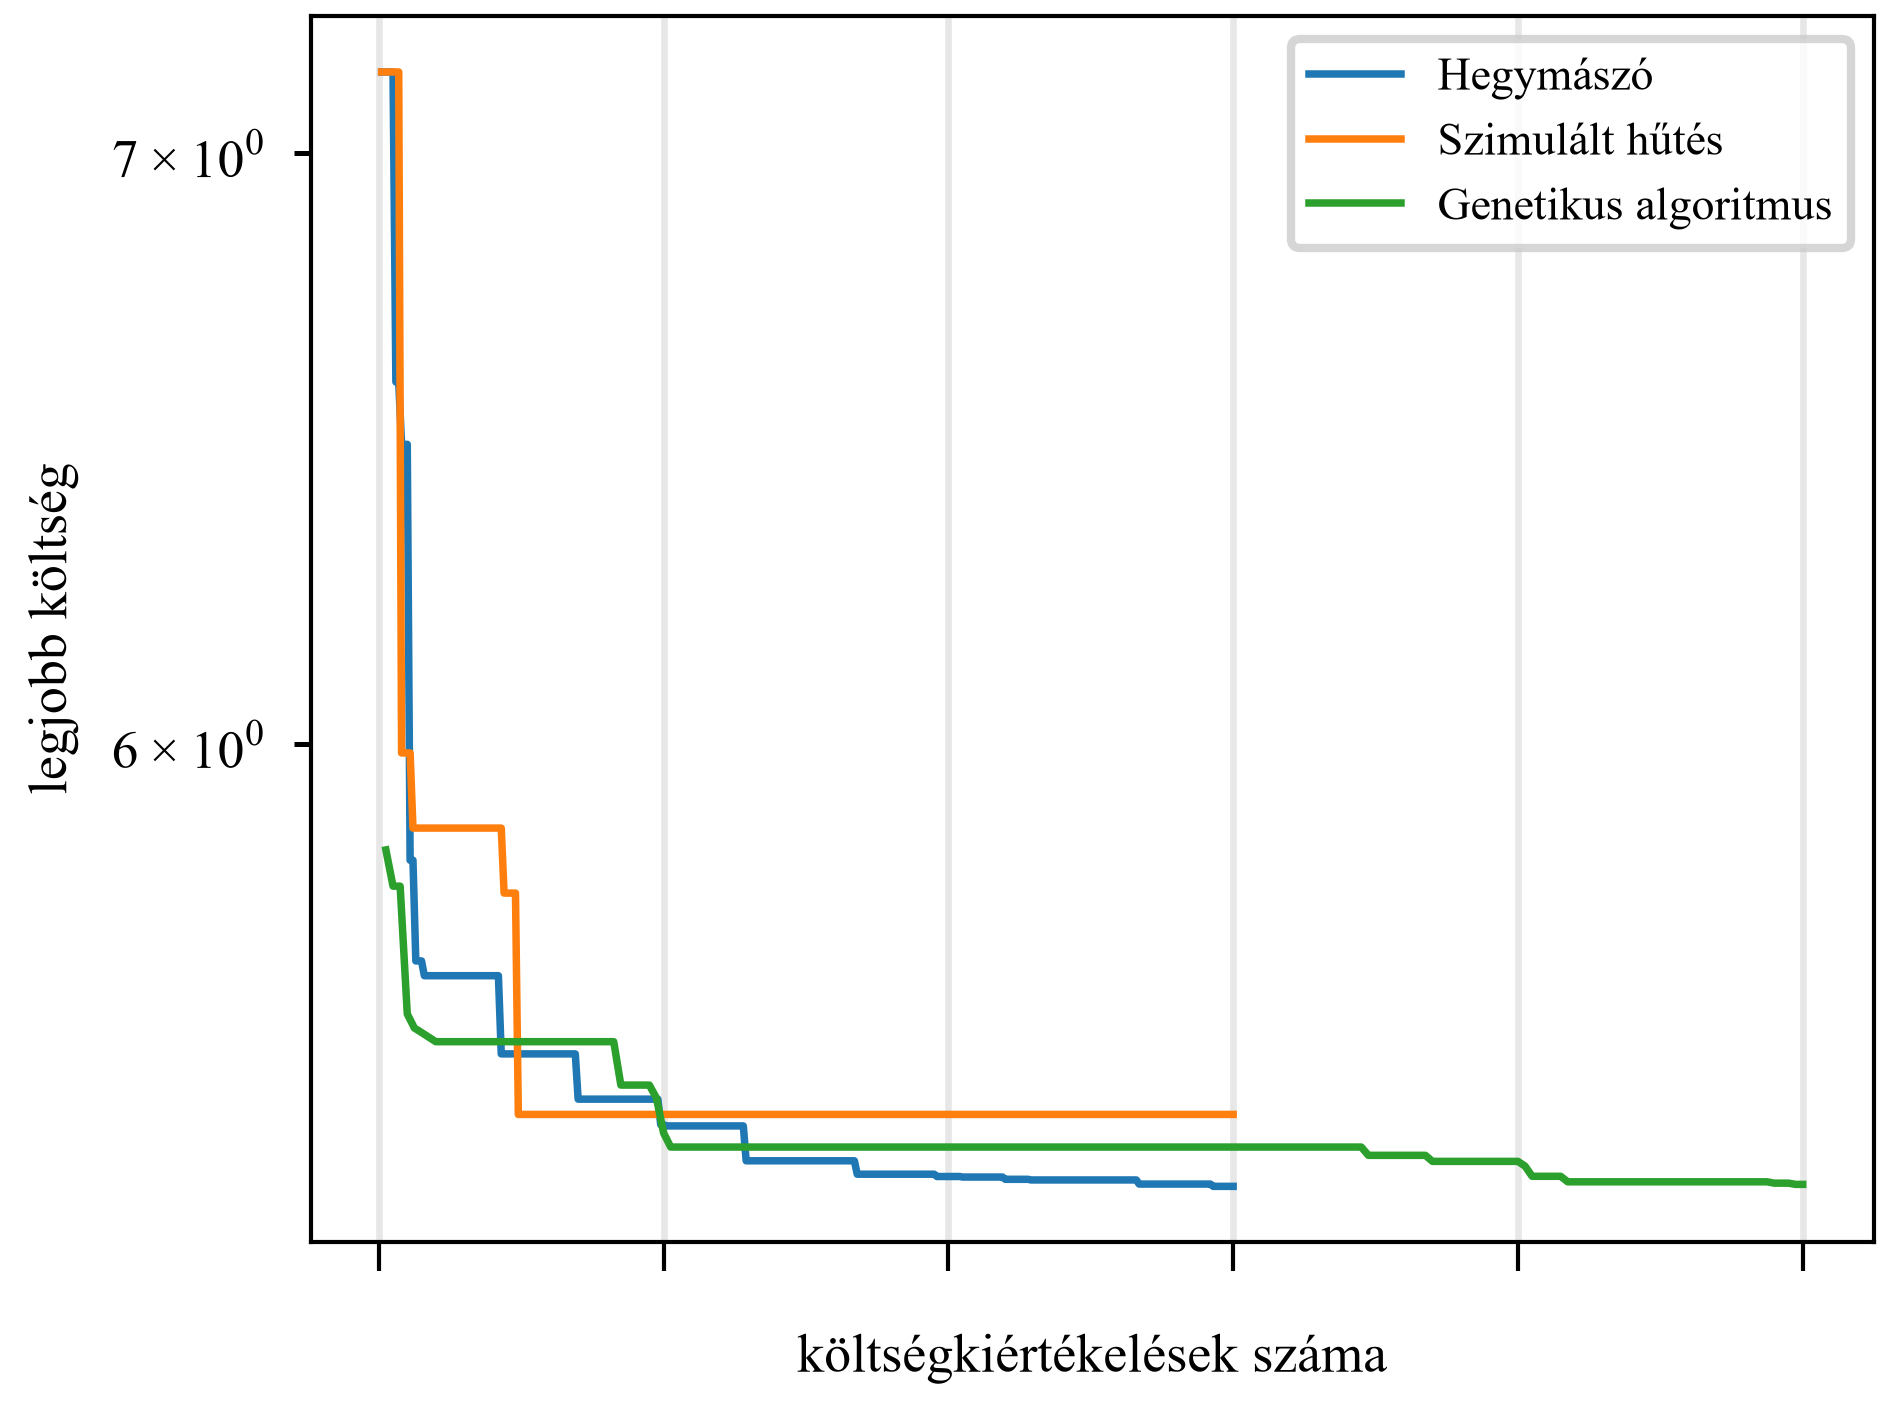
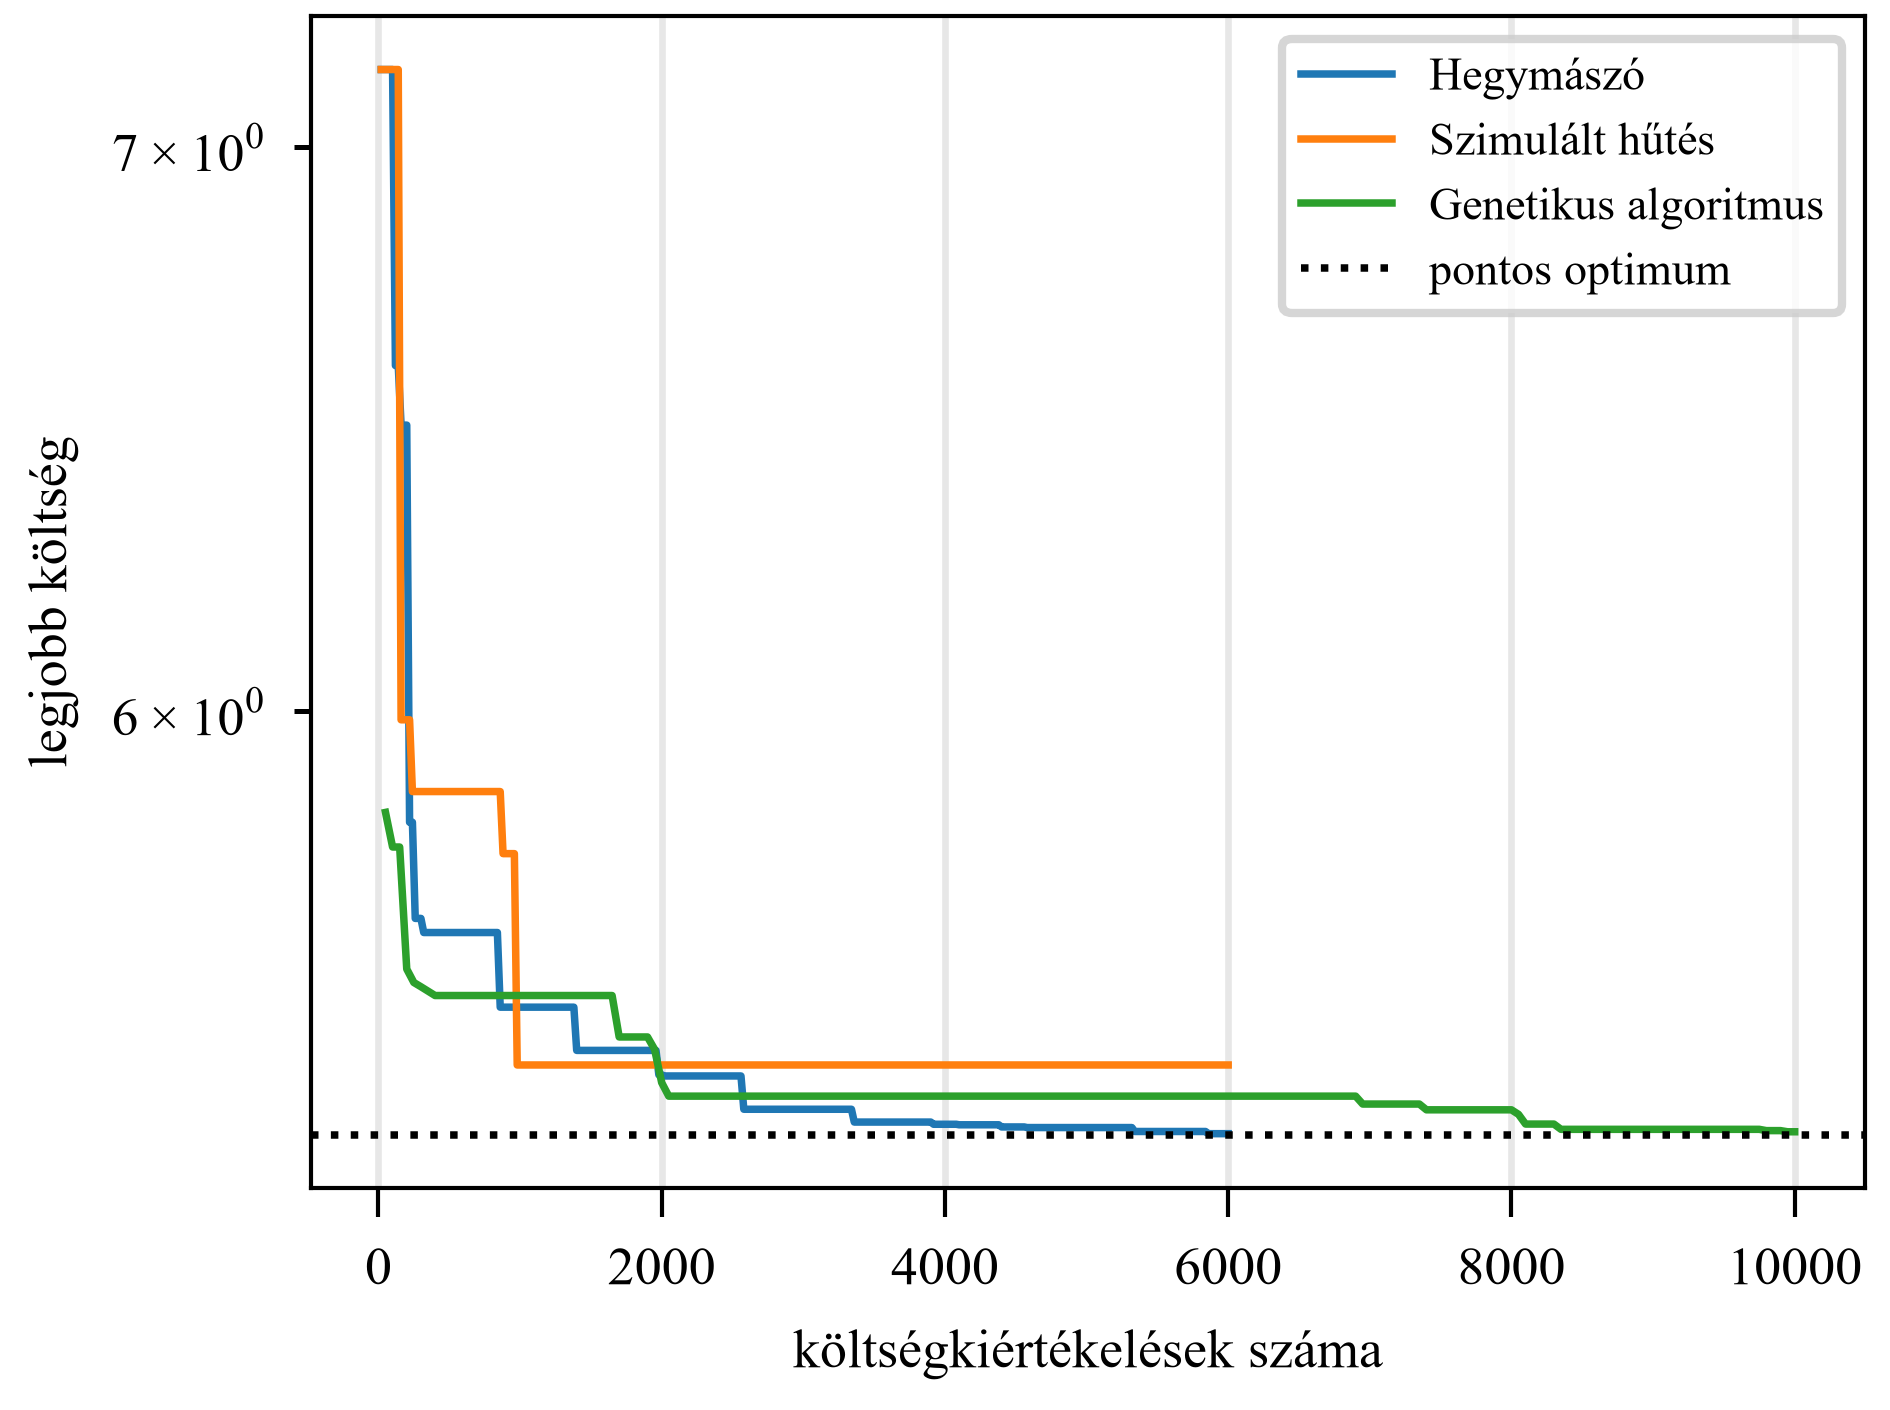
Final plots added
Added final_plots.py, generated pics

diff --git a/src/final_plots.py b/src/final_plots.py
@@ -1,3 +1,5 @@
+
+import itertools
 import os
 
 import numpy as np
@@ -7,6 +9,7 @@ from matplotlib.ticker import FuncFormatter
 from generator.points import (
     reset_seed,
     circle_points,
+    ellipse_points,
     polygon_points,
     random_points,
 )
@@ -44,43 +47,89 @@ LEGEND = {"points": "pontok", "reference": "referencia",
           "known optimum": "pontos optimum"}
 
 # the sets that get figures, remove a name to skip that set
-SELECTED = ["clean", "circle", "arc", "polygon", "random"]
+SELECTED = ["clean", "circle", "arc", "polygon", "random", "ellipse"]
+
+
+def exact_circle(pts):
+    """
+    Find the exact smallest enclosing circle by checking every circle that
+    is fixed by two or three points, it is meant for small sets (N < 200)
+
+    Parameters:
+    pts (np.ndarray): An array of shape (N, 2) with the points
+
+    Returns:
+    tuple: The centre x, the centre y and the radius of the circle
+    """
+    best = None
+
+    def covers(c, r):
+        return np.hypot(pts[:, 0] - c[0], pts[:, 1] - c[1]).max() <= r + 1e-9
+
+    for i, j in itertools.combinations(range(len(pts)), 2):
+        c = (pts[i] + pts[j]) / 2
+        r = np.linalg.norm(pts[i] - c)
+        if (best is None or r < best[2]) and covers(c, r):
+            best = (c[0], c[1], r)
+    for i, j, k in itertools.combinations(range(len(pts)), 3):
+        a, b, d = pts[i], pts[j], pts[k]
+        den = 2 * (a[0] * (b[1] - d[1]) + b[0] * (d[1] - a[1])
+                   + d[0] * (a[1] - b[1]))
+        if abs(den) < 1e-12:
+            continue
+        ux = (a @ a * (b[1] - d[1]) + b @ b * (d[1] - a[1])
+              + d @ d * (a[1] - b[1])) / den
+        uy = (a @ a * (d[0] - b[0]) + b @ b * (a[0] - d[0])
+              + d @ d * (b[0] - a[0])) / den
+        r = np.hypot(a[0] - ux, a[1] - uy)
+        if (best is None or r < best[2]) and covers((ux, uy), r):
+            best = (ux, uy, r)
+    return best
 
 
 def make_test_sets():
     """
-    Build the four test point sets, every set starts from the same seed
+    Build the five test point sets, every set starts from the same seed
 
     Parameters:
     None
 
     Returns:
     dict: Maps the file name of the set to a tuple of the points, the
-        circle the points came from (None if there is no such circle) and
-        the radius of the exact optimum (None if it is not known)
+        exact smallest enclosing circle of the points (the reference) and
+        the radius of that circle, which is also the cost of the optimum
     """
+    points = {}
+
+    reset_seed(SEED)
+    points["clean"] = circle_points(r=5, n=50, center=(1, -2), noise=0)
+
+    reset_seed(SEED)
+    points["circle"] = circle_points(r=5, n=50, center=(1, -2), noise=0.3)
+
+    reset_seed(SEED)
+    points["arc"] = circle_points(r=5, n=50, noise=0.3, span=np.pi)
+
+    reset_seed(SEED)
+    points["polygon"] = polygon_points(sides=8, r=5, n=80, noise=0.1)
+
+    reset_seed(SEED)
+    points["random"] = random_points(n=50, x_range=(-5, 5), y_range=(-5, 5))
+
+    reset_seed(SEED)
+    points["ellipse"] = ellipse_points(
+        a=7, b=4, n=80,
+        center=(1, -2),
+        rotation=np.deg2rad(25),
+        noise=0.1
+    )
+
+    # the reference is the exact optimum of every set, not the circle the
+    # points were generated from, because noise moves the optimum away from it
     sets = {}
-
-    # no noise, so the generating circle is the exact smallest enclosing circle
-    reset_seed(SEED)
-    sets["clean"] = (circle_points(r=5, n=50, center=(1, -2), noise=0),
-                     Circle(1, -2, 5), 5.0)
-
-    reset_seed(SEED)
-    sets["circle"] = (circle_points(r=5, n=50, center=(1, -2), noise=0.3),
-                      Circle(1, -2, 5), None)
-
-    reset_seed(SEED)
-    sets["arc"] = (circle_points(r=5, n=50, noise=0.3, span=np.pi),
-                   Circle(0, 0, 5), None)
-
-    reset_seed(SEED)
-    sets["polygon"] = (polygon_points(sides=8, r=5, n=80, noise=0.1),
-                       Circle(0, 0, 5), None)
-
-    reset_seed(SEED)
-    sets["random"] = (random_points(n=50, x_range=(-5, 5), y_range=(-5, 5)),
-                      None, None)
+    for name, pts in points.items():
+        cx, cy, r = exact_circle(pts)
+        sets[name] = (pts, Circle(cx, cy, r), float(r))
     return sets
 
 
@@ -115,9 +164,8 @@ def use_decimal_comma(axis):
     Returns:
     None
     """
-    old = axis.get_major_formatter()
     axis.set_major_formatter(
-        FuncFormatter(lambda v, pos: old(v, pos).replace(".", ",")))
+        FuncFormatter(lambda v, pos: f"{v:g}".replace(".", ",")))
 
 
 def translate_legend(ax, **kwargs):
@@ -169,11 +217,8 @@ def save_overlay(pts, solutions, reference, path):
     Parameters:
     pts (np.ndarray): An array of shape (N, 2) with the points
     solutions (dict): Maps the method name to the circle it found
-    reference (Circle): The circle the points came from, None to skip it
+    reference (Circle): The exact smallest enclosing circle, None to skip it
     path (str): The output file
-
-    Returns:
-    None
     """
     fig, ax = plt.subplots(figsize=(WIDTH, 3.0))
     plot_solutions_overlay(pts, solutions, true_circle=reference, title="",
@@ -190,7 +235,8 @@ def save_overlay(pts, solutions, reference, path):
 def main():
     """
     Run the three methods on the selected test sets and save two figures per
-    set as figures/<set>_history.png and figures/<set>_overlay.png
+    set as figures/<set>_history.png and figures/<set>_overlay.png, the
+    radius of the exact optimum and of every found circle is printed too
 
     Parameters:
     None
@@ -217,6 +263,10 @@ def main():
                      optimum)
         save_overlay(pts, solutions, reference,
                      os.path.join(OUT_DIR, f"{name}_overlay.png"))
+
+        # the radii are needed for the numbers in the text of the paper
+        found = ", ".join(f"{m}: {c.r:.3f}" for m, c in solutions.items())
+        print(f"{name}: optimum {optimum:.3f}, {found}")
 
 
 if __name__ == "__main__":
